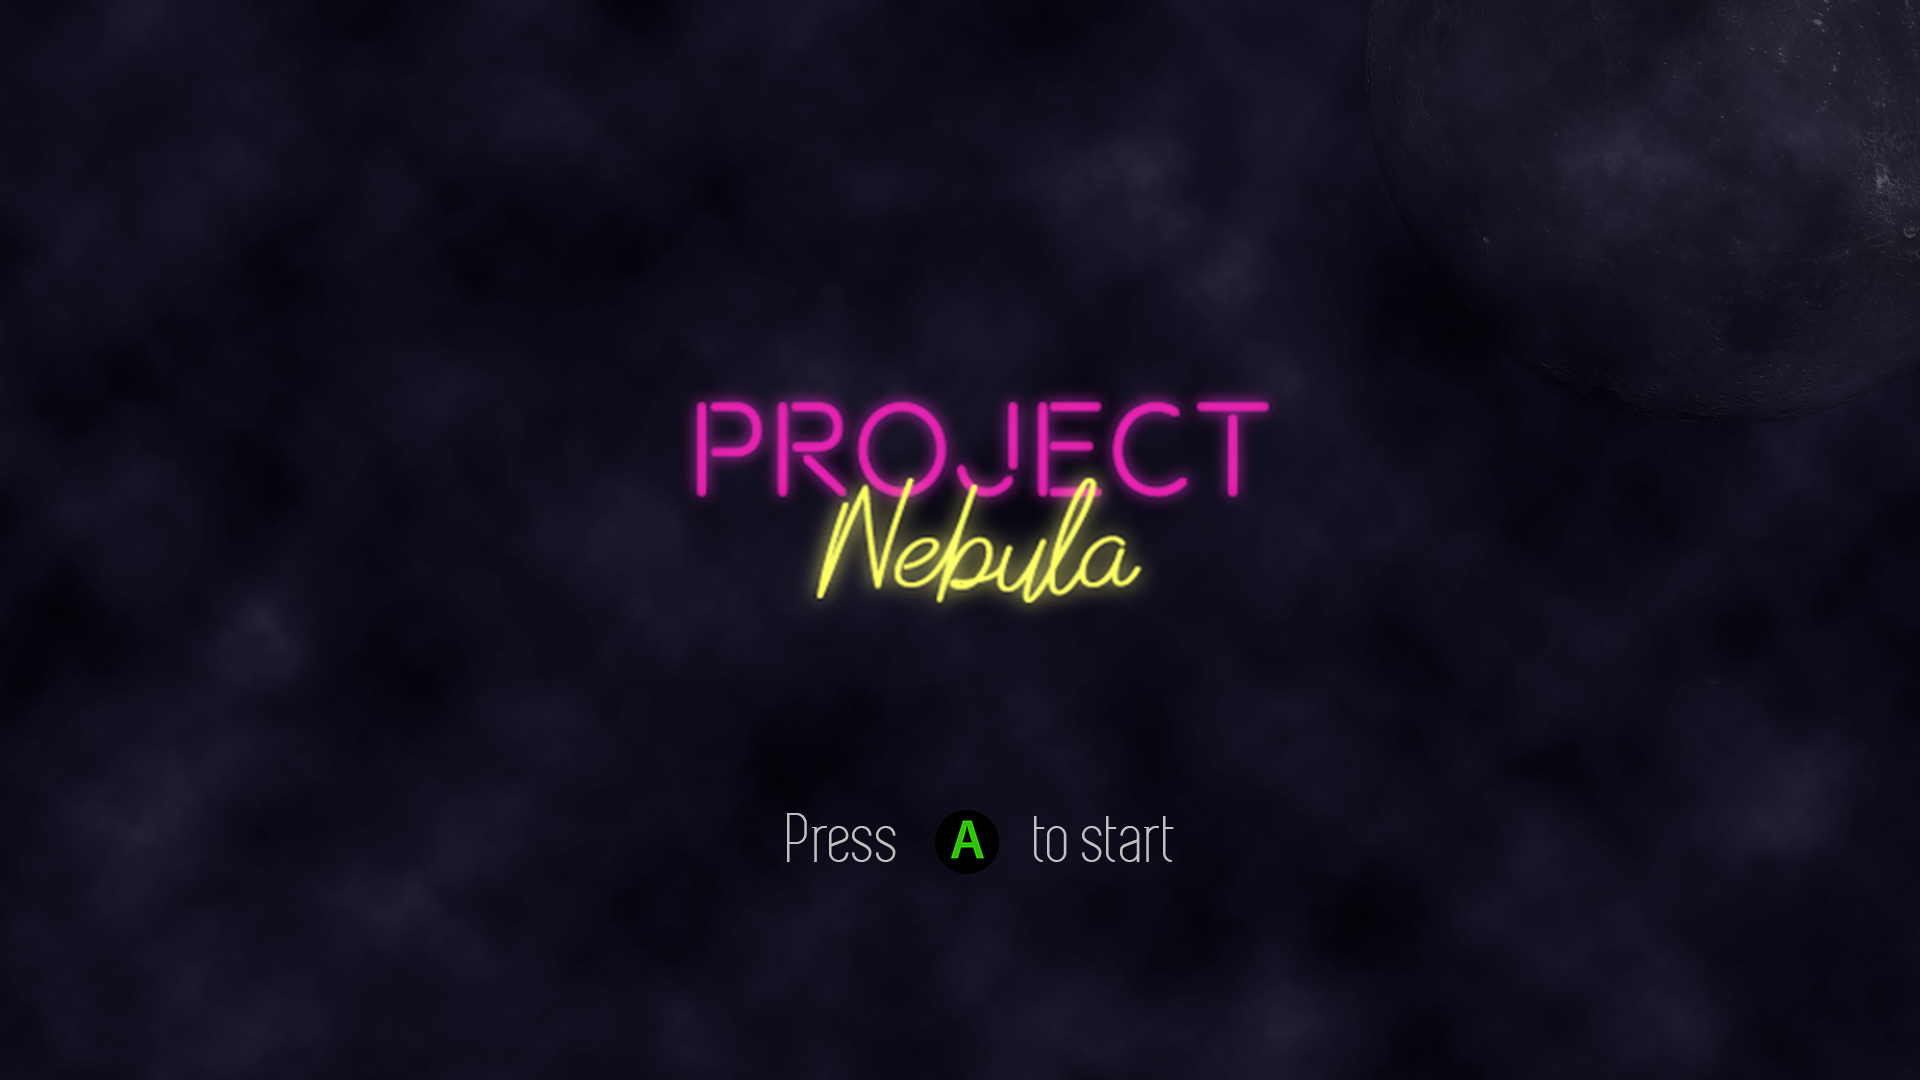
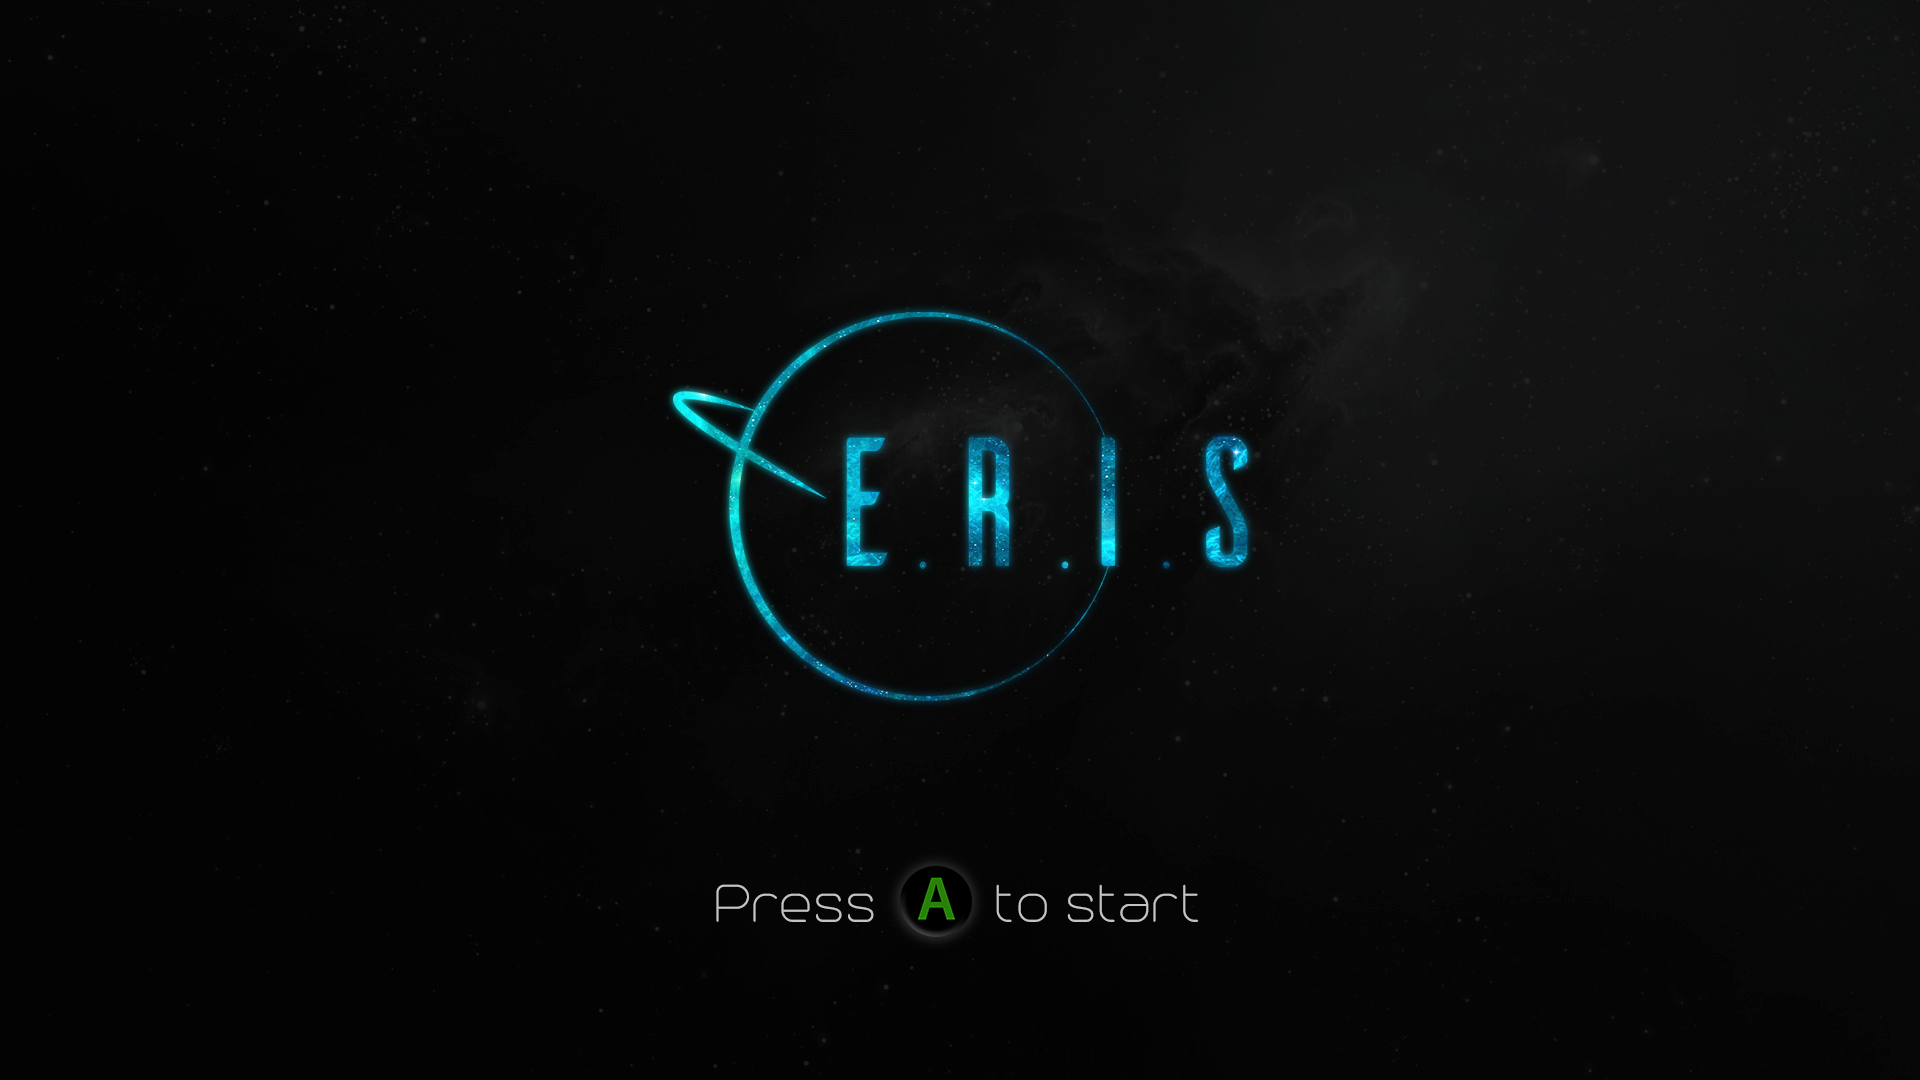
New intro screen

diff --git a/First Game/Intro.h b/First Game/Intro.h
@@ -11,6 +11,7 @@ public:
 		mod.push_back(new Model("Models/Screen/Intro/Background/introBackGround.obj"));
 		context->addModel(mod.back());
 		LightSource::setSceneAmbient({0,0,0,255});
+		mod[0]->getTransformer().setScale(0.85f, 1.5f, 1.0f);
 	}
 
 	// doing the update for intro screen
@@ -31,12 +32,12 @@ public:
 		}
 		if(!fadein)
 		{
-			LightSource::setLightAmount(1);
-			LightSource::setLightType(LIGHT_TYPE::POINT, 0);
-			LightSource::setPosition({0.0f,45.0f,700.0f}, 0);
-			LightSource::setDiffuse({10,10,10,10}, 0);
-			LightSource::setAttenuationQuadratic(0.04f, 0);
-			LightSource::setDirection({0.0f,0.0f,.0f}, 0);
+			//LightSource::setLightAmount(1);
+			//LightSource::setLightType(LIGHT_TYPE::POINT, 0);
+			//LightSource::setPosition({0.0f,45.0f,700.0f}, 0);
+			//LightSource::setDiffuse({10,10,10,10}, 0);
+			//LightSource::setAttenuationQuadratic(0.04f, 0);
+			//LightSource::setDirection({0.0f,0.0f,.0f}, 0);
 		}
 		if(Xinput::buttonPressed(context->getController(0).buttons.A))
 		{

diff --git a/First Game/Game.h b/First Game/Game.h
@@ -791,6 +791,7 @@ public:
 
 							/// - Boss Spawns Minions - ///
 
+							//TODO: More Minions, random spawns (spawned by boss eventually) Minion collisions, and fix dash/missiles 
 							if (minionCounter <= 0)
 							{
 								minions[a].push_back(nullptr);
@@ -798,7 +799,7 @@ public:
 								minions[a].back()->setToRender(true);
 								minions[a].back()->getTransformer().reset();
 								minions[a].back()->setColour(200,100,50);
-								Coord3D pos = mod[a]->getTransformer().getPosition();
+								minions[a].back()->getTransformer().getPosition();
 								minions[a].back()->getTransformer().setPosition(10,0,-3);
 								minions[a].back()->getTransformer().setScale(4.f);
 
@@ -837,6 +838,7 @@ public:
 								}
 
 							}
+
 							else//Do the same with the LT button, have it so will only work every X seconds.
 							{
 								move -= .001f;
